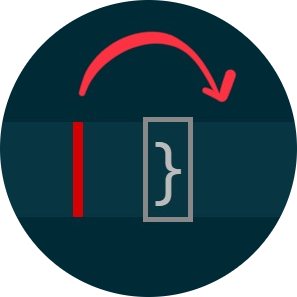
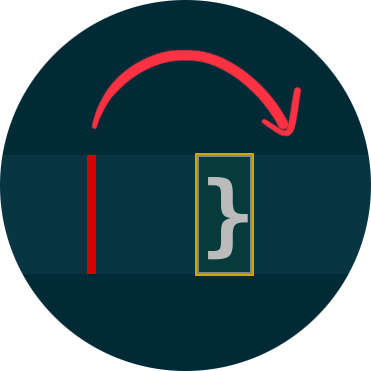
Update changelog and readme.

diff --git a/README.md b/README.md
@@ -2,139 +2,150 @@
 
 This extension provides the ability to leap out of autoclosing pairs with `Tab`.
 
-## Leaper in Action
-
-![Leaper in Action Gif 1](images/leaper-in-action-1.gif)
-
-![Leaper in Action Gif 2](images/leaper-in-action-2.gif)
+![Leaper in Action Gif Single Cursor](images/leaper-in-action-single.gif)
 
 ## How It Works
 
-The user's input is monitored for the insertion of any autoclosing pairs. 
-
-By default, these are monitored:
+Whenever you insert any of the following autoclosing pairs:
 
     (), {}, [], <>, '', "", ``
 
-When any of the above autoclosing pairs are inserted, this extension will begin 
-to track its position in the document and provide the user the ability to leap 
-(i.e jump) out of it. 
+this extension will begin to track its position in the document and provide you
+the ability to leap (i.e. move) out of it with a `Tab` keypress. Pairs that are
+being tracked will have their closing sides decorated, and the decorations can 
+be customized with the `leaper.decorateAll` and `leaper.decorationOptions` 
+configurations.
 
-Once the user has jumped out of a pair, or has intentionally moved the cursor 
-out of a pair, then that pair will no longer the tracked by this extension.
+Once you have leaped out of a pair, or have intentionally moved the cursor out 
+of a pair, then that pair will no longer be tracked by this extension.
 
-## Keybindings
+You can customize which autoclosing pairs are tracked by this extension with the 
+`leaper.detectedPairs` configuration.
 
-### `Tab` - `leaper.leap` (Leap)
+## Commands
 
-This command causes the cursor to jump out of the nearest available pair.
+### `leaper.leap` (Keybinding: `Tab`)
+    
+This command moves the cursor out of the nearest available pair.
 
 By 'available' we mean:
 
  1. The pair must be a pair that is being tracked by this extension.
- 2. There is line of sight to the closing side of the pair, meaning there is 
-    no non-whitespace text between the cursor and the closing side of the pair.
+ 2. There is either no text or only whitespace text between the cursor and the 
+    closing side of said pair.
+
+This command works when there are multiple cursors as well. 
+
+![Leaper in Action Gif Multi Cursor](images/leaper-in-action-multi.gif)
 
 #### _Potential Conflict with Tab Completion Feature_
 
 `leaper.leap`'s default `Tab` keybinding, while suitable for most use cases, can 
-conflict with vscode's [_tab completion_] feature, since that feature requires 
-the user to press the `Tab` key, possibly at places where there are pairs that 
-can be leaped out of. 
+conflict with vscode's [tab completion] feature, since that feature requires 
+users to press the `Tab` key, possibly at places where there are pairs that can 
+be leaped out of. 
 
-To avoid conflicts, the keybindings of vscode's tab completion feature 
-(`insertBestCompletion` and `insertNextSugggestion`) could be rebound to another 
-key. Alternatively, `leaper.leap` could be rebound as well to avoid the conflict. 
+However, since vscode's tab completion feature is disabled by default, most users 
+should not experience any such keybinding conflicts.
 
 **Note that tab completion is not the same as quick suggestion, which is the 
-default vscode suggestion mode where a suggestion tooltip appears as the user is 
-typing.**
+default vscode suggestion mode.**
 
-[_tab completion_]: https://code.visualstudio.com/docs/editor/intellisense#_tab-completion
+[tab completion]: https://code.visualstudio.com/docs/editor/intellisense#_tab-completion
 
-### `Shift` + `Escape` - `leaper.escapeLeaperMode` (Escape Leaper Mode)
+### `leaper.escapeLeaperMode` (Keybinding: `Shift` + `Escape`)
 
-This command clears the list of pairs that are being tracked by this extension.
+This command clears the list of pairs that are being tracked.
+
+![Escape Leaper Mode](images/escape-leaper-mode.gif)
 
 ## Configurations
 
-### `leaper.decorationOptions`
-
-Use this configuration to specify the decoration of the closing side of a pair.
-
-Default value: 
-
-    {
-        "outlineColor": {
-            "id": "editorBracketMatch.border"
-        },
-        "outlineWidth": "1px",
-        "outlineStyle": "solid",
-        "fontWeight": "bold"
-    }
-
-All of the properties available in vscode's [`DecorationRenderOptions`] (with the
-exception of `rangeBehavior`) can be specified. 
-
-However, properties aside from the ones related to `outline`, `border` or `font`
-have not been tested, and use of them could cause unwanted side-effects such as 
-poor performance.
-
-To turn off decorations, just specify an empty object:
-
-    {}
-
-#### _Custom Types_
-
-Certain properties accept custom types, such as the `outlineColor` property which 
-accepts [`ThemeColor`] or the `dark` property which accepts [`ThemableDecorationRenderOptions`].
-
-Because Typescript has [_structural subtyping_], these custom types can be 
-specified via a JSON object containing the required properties. For instance, 
-see how we were able to supply a `ThemeColor` for the `outlineColor` property in 
-the default value of this configuration.
-
-[`DecorationRenderOptions`]: https://code.visualstudio.com/api/references/vscode-api#DecorationRenderOptions
-[`ThemeColor`]: https://code.visualstudio.com/api/references/vscode-api#ThemeColor
-[`ThemableDecorationRenderOptions`]: https://code.visualstudio.com/api/references/vscode-api#ThemableDecorationRenderOptions
-[_structural subtyping_]: https://www.typescriptlang.org/docs/handbook/type-compatibility.html
-
 ### `leaper.decorateAll`
 
-Use this configuration to specify whether decorations are applied to all pairs 
-that are being tracked or just the ones nearest to each cursor.
+This configuration specifies whether decorations are applied to all pairs that 
+are being tracked or just the ones nearest to each cursor.
 
-Default value:
-
-    false
-
-Here is what it looks like when this configuration is disabled:
+Here is what it looks like disabled:
 
 ![Decorate All False](images/decorate-all-false.gif)
 
-And here is what it looks like when it is enabled: 
+and here is what it looks like enabled: 
 
 ![Decorate All True](images/decorate-all-true.gif)
 
+This configuration is disabled by default.
+
+### `leaper.decorationOptions`
+
+This configuration specifies the style of the decorations.
+
+This configuration accepts a subset of vscode's [DecorationRenderOptions]. Most 
+of the properties in that type are supported. For properties relating to color, 
+you can specify a either a hex RGB(A) value string or a [theme color identifier] 
+string. Theme color identifers allow you to reference a color in the current theme 
+you are using. If a color string begins with a `#`, it is treated as a hex RGB(A) 
+value. Otherwise, it is treated as a theme color identifier.
+
+Suppose you want the following style in light themes:
+
+![Decoration Options Example 1](images/decoration-options-example-1.gif)
+
+and the following style in dark themes:
+
+![Decoration Options Example 2](images/decoration-options-example-2.gif)
+
+then you can set this configuration to:
+
+    {
+        "backgroundColor": "#0000FF9E",
+        "outlineColor": "editorBracketMatch.border",
+        "outlineStyle": "outset",
+        "outlineWidth": "1px",
+        "fontWeight": "bolder",
+        "light": {
+            "backgroundColor": "#0000001A"
+        }
+    }
+
+The default value of this configuration is:
+
+    {
+        "outlineColor": "editorWarning.foreground",
+        "outlineStyle": "solid",
+        "outlineWidth": "1px",
+        "fontWeight": "bolder"
+    }
+
+which applies a slight bolding and an outline using the current theme's color 
+for warning squiggles.
+
+To disable decorations, set this to `null`.
+
+[DecorationRenderOptions]: https://code.visualstudio.com/api/references/vscode-api#DecorationRenderOptions
+[theme color identifier]: https://code.visualstudio.com/api/references/theme-color
+
 ### `leaper.detectedPairs`
 
-Use this configuration to specify the autoclosing pairs that the extension 
-should detect.
+This configuration specifies which autoclosing pairs this extension should 
+detect.
 
-Default value:
+Suppose you want this extension to only detect `()`, `[]` and `{}` pairs. Then
+you can set this configuration to:
+
+    [ "()", "[]", "{}" ]
+
+Or suppose you are using a programming language that has `()`, `<>`, `[]`, `||` 
+and `$$` as autoclosing pairs. Then if you want this extension to only detect
+those pairs, you should set this configuration to:
+
+    [ "()", "<>", "[]", "||", "$$" ]
+
+The default value of this configuration is:
 
     [ "()", "[]", "{}", "<>", "``", "''", "\"\"" ]
  
-For example, we can disable detection of `""` pairs by specifying:
-
-    [ "()", "[]", "{}", "<>", "``", "''" ]
-
-Or we can enable detection of `||` pairs by specifying: 
-
-    [ "()", "[]", "{}", "<>", "``", "''", "\"\"", "||" ]
-
-Note that there is no support for pairs that are more than 1 character wide on
-either side. This means that pairs like `(())` are not allowed.
+which includes the autoclosing pairs of most mainstream programming languages.
 
 ## Feedback and Help
 

diff --git a/CHANGELOG.md b/CHANGELOG.md
@@ -2,15 +2,19 @@
 
 ### 0.10.0 _(Work in Progress)_
 - Allow the extension to run in untrusted workspaces. 
-- Change the default decoration to something with more contrast.
+- Fix incorrect extension packaging. The fix in 0.9.3 did not work.
+- Hide the 'Leap' and 'Escape Leaper Mode' commands from the command palette.
 - Improve the `leaper.decorationOptions` configuration.
-  * Allow theme color identifiers to be specified with strings.
   * Add autocompletion and validation for most of the options.
-- Improve the README.
+  * Add a few examples of decoration options.
+  * Allow theme color identifiers to be specified with strings.
+  * Change the default decoration to something with more contrast.
+  * Require `null` instead of `{}` to disable decorations.
 - Improve the descriptions of configurations.
 - Improve the engine code.
-- Hide the 'Leap' and 'Escape Leaper Mode' commands from the command palette.
-- Fix incorrect extension packaging. The fix in 0.9.3 did not work.
+  * Allow configurations to be hot reloaded.
+  * Remove a lot of complexity from the code.
+- Improve the README.
 
 ### 0.9.3 _(Not published to marketplace)_
 - Fix incorrect extension packaging. This should reduce the file size.
